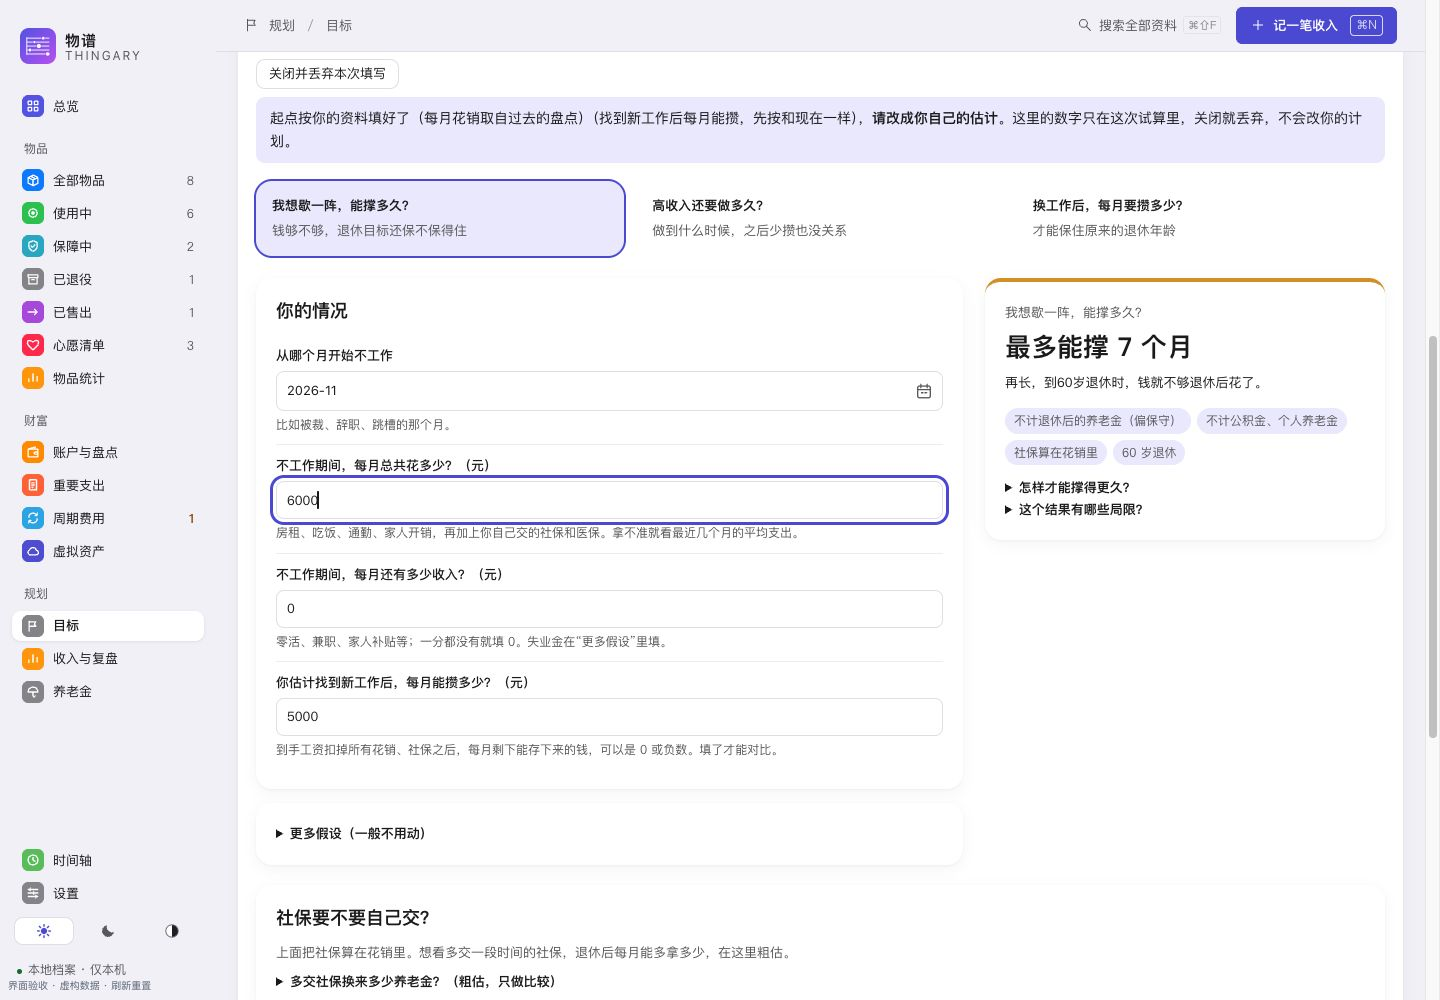
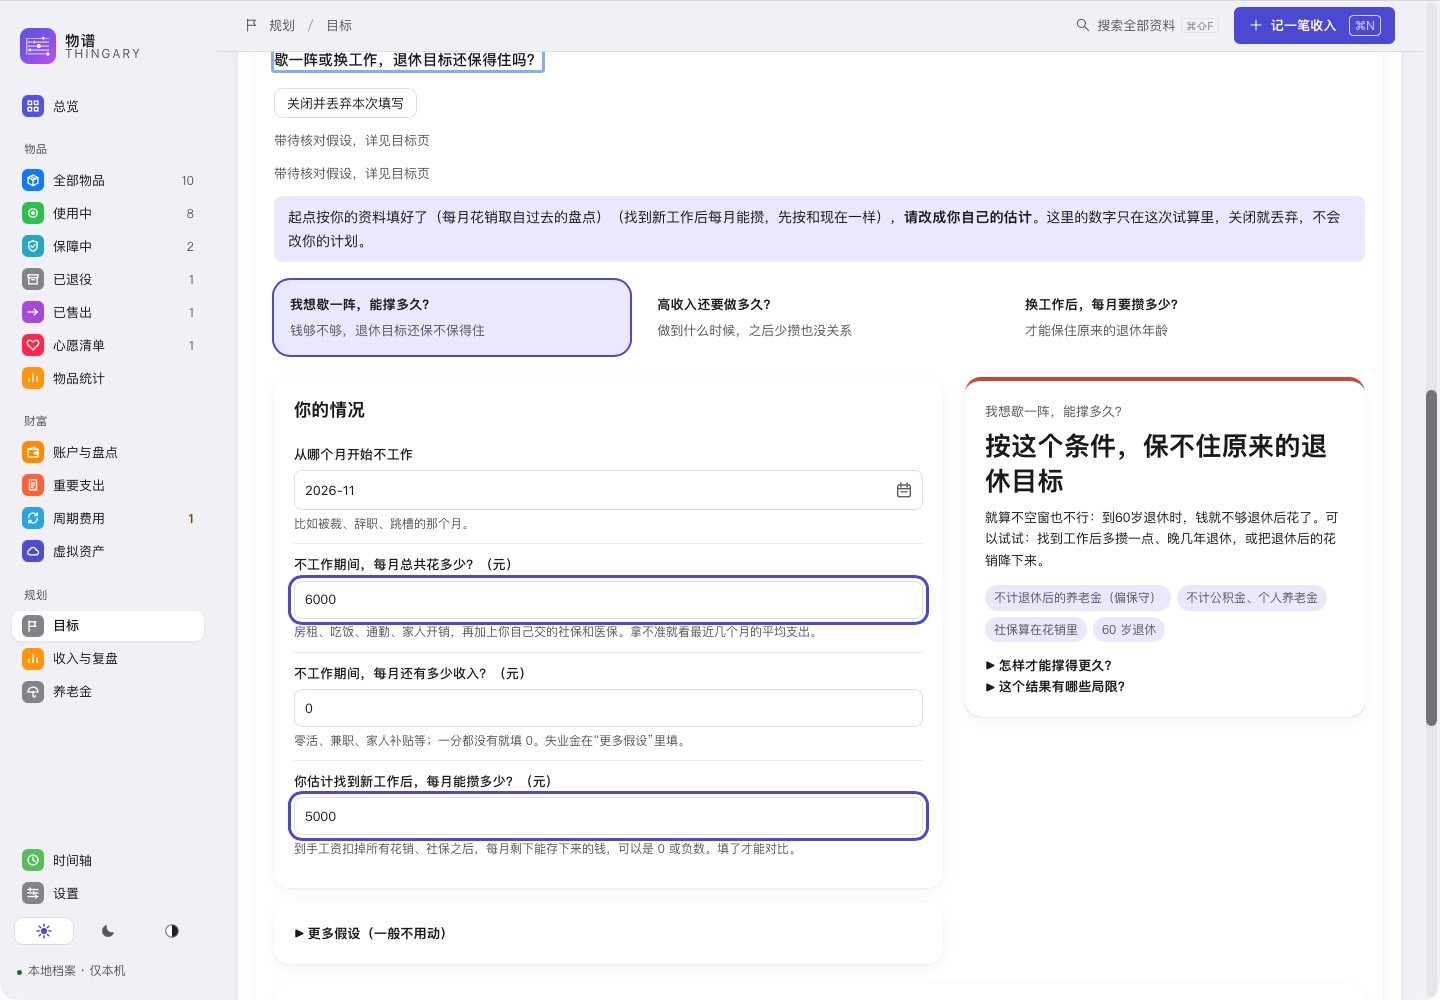
刷新隔离原生截图并记录升级与走查范围

diff --git a/docs/images/README.md b/docs/images/README.md
@@ -1,10 +1,12 @@
 # 界面截图与维护
 
-本目录为 README 与使用指南提供真实界面截图。当前 JPEG 于 **2026-10-09** 使用 **0.0.2** 应用代码拍摄（应用基线 `78715bbe9ead86f8df3098db7d3869c4f91f6808`），浏览器视口统一为 **1440 × 1000**，使用默认「柔和卡片」主题。截图全部来自内存虚构预览，不含正式资料；浏览器截图不证明原生功能已验。`planning-goals.jpg` 单独更新为基线 `40f6bb32ea5eafef8e5e2ed340d688bb3ec7ac6d` 上的四问引导代码，视口 **1200 × 900**、浅色，复现参数 `?section=planning&plan-first-run=2&capabilities=real&theme=light`；其他图仍为上述基线。`install-flow.svg` 是安装步骤示意，流程未变时无需重新绘制。
+本目录为 README 与使用指南提供真实界面截图。**2026-10-11** 在 **0.0.3** 隔离原生身份 `local.thingary.native003.acceptance` 下刷新 `overview-light.jpg`、`overview-dark.jpg`、`planning-goals.jpg`、`planning-detail.jpg`、`career-trial.jpg` 与 `backup-settings.jpg`；应用业务代码基线为 `4578bdcf2844d75071c65bb3b849197c359f760a`，材料提交为 `b179e04d21d942ebf2391b523827ae1b271c14d0`。使用默认「柔和卡片」主题，内容区域 **1440 × 1000**，目标页单独为 **1200 × 900**。以 `screencapture -l <CGWindowID>` 取真实窗口，只裁掉 32 像素系统标题栏；未拼改功能、数字或状态。
 
-0.0.3 发布准备已对照检查 `planning-goals.jpg`、`planning-detail.jpg`、`career-trial.jpg`、两张 `overview-*.jpg` 与 `backup-settings.jpg`。目标／详情、首页统计措辞、职业试算提示和 Excel 导入导出入口有变化，这六张仍需刷新。浏览器截图输出未达到清晰度要求，当前保留上述原图，未将旧图改记为 0.0.3；隔离原生验收时再检查可否补拍。
+总览与三张规划图来自应用首次生成的独立虚构样例：10 件物品、金融净资产 35 万元、可动用资金 10 万元、60 岁退休、每月生活费 7,500 元、预计每月能存 8,000 元、收益 3%／2%、通胀 2%，保留贷款和费用待核对说明。职业试算填写 6,000／0／5,000 元，按这一组样例条件显示“保不住原来的退休目标”，不沿用旧浏览器夹具的 7 个月答案。备份设置图来自同一隔离身份切换后的虚构个人资料：1 件物品、1 个账户、2 次完整盘点，展示 Excel 与自动备份入口。
 
-## 复现入口
+其他 JPEG 保留 **2026-10-09、0.0.2** 浏览器内存预览基线 `78715bbe9ead86f8df3098db7d3869c4f91f6808`，视口 **1440 × 1000**。未发现本次变化直接影响这些图所展示的操作；全部资料虚构，浏览器截图不证明原生功能已验。`install-flow.svg` 是安装步骤示意，流程未变无需重绘。最初浏览器刷新候选因清晰度不足弃用，不作为发布图片。
+
+## 浏览器预览入口（未刷新的图片）
 
 在独立开发树运行 `npm run dev -- --port 1439`，打开：
 
@@ -27,7 +29,11 @@ http://127.0.0.1:1439/visual-preview.html?plan-basic=saved&capabilities=real&the
 | `subscription-detail.jpg` | 虚拟资产 › 虚构创作服务，只读共享详情 |
 | `first-item-form.jpg` | 全部物品 › 新增物品；名称“我的笔记本电脑”、分类“电脑与办公”、价格 5,000 元，拍摄后取消 |
 | `first-snapshot-form.jpg`、`first-snapshot-result.jpg` | 改用 `?wealth=empty&theme=light`，建立“日常银行卡”和“信用卡”，填 10,000 元余额与 2,000 元欠款；分别拍摄保存前与保存后的概览 |
-| `backup-settings.jpg` | 设置 › 资料与备份；只展示入口，不执行真实备份或恢复 |
+| `backup-settings.jpg` | 设置 › 资料与备份；隔离身份的虚构个人资料，只拍入口，真实备份／恢复验收另行记录 |
+
+## 本次原生图复现
+
+以全新隔离身份构建 0.0.3，打开首次虚构样例，依表中导航拍摄总览和规划；目标页调整内容区域为 1200 × 900，其他图为 1440 × 1000。总览与规划保持同组样例和日期，不使用正式身份。职业试算填写后检查实际答案；关闭并丢弃填写。备份设置图先切到自己的空资料，建立上述虚构记录，观察自动备份成功后拍摄。不要把样例净资产与可动用资金相加。
 
 ## 更新检查
 

diff --git a/docs/releases/v0.0.3.md b/docs/releases/v0.0.3.md
@@ -28,13 +28,13 @@
 
 **新版资料和完整备份不能被旧版打开。** 新贷款安排、养老金及医保字段也有旧版读取边界；降低应用版本号不会降低数据格式。需要回退时，须使用升级前且与旧版兼容的完整备份，不能让旧应用直接打开已经升级的资料。Excel 不包含图片及全部配置和关系，不能替代 `.thingary` 完整备份；恢复是整体替换，不是合并。
 
-本次使用全新隔离身份生成的 0.0.2 虚构资料，直接升级、重启保留与旧完整备份恢复后的升级结果，待原生验收完成后补充；目前未宣称这些步骤通过。
+本次以全新隔离身份运行 0.0.2 源码生成的虚构资料，验证直接升级、重启保留，以及旧自动完整备份恢复后升级至 schema 35；物品、心愿、账户、金额与未知值、关联、保障及图片逐项比对一致。夹具同时包含完整盘点和带未知金额的历史盘点，未知未当作零。
 
 ## 验证与限制
 
 本次工程回归基线（版本与交付材料修改前）：前端构建、**875 项前端逻辑测试**、Rust 格式／Clippy 检查及 **513 项数据与存储测试**通过；另有 3 项既有容量测试忽略。前端逻辑和数据与存储测试不代表原生交互已验。
 
-**原生验收待补充**：本次尚未完成隔离身份下的首次样例、自己的资料、物品、账户、完整盘点、完整备份／恢复和重启走查；0.0.2 虚构资料升级，以及四问保存、医保年限卡、其他城市养老金与复盘页抽查也尚未完成。后续只登记实际通过、失败、未验证或需手动确认的范围。正式包的身份、版本、架构、严格签名、离线指南和许可材料尚待安装包核验。
+**本次原生验收**：隔离身份下的首次样例、切换自己的空资料、新建物品与账户、完整盘点、自动完整备份恢复及重启保留通过。已抽查四问保存、医保核对卡入口、其他城市参数填写与保存，以及盘点后复盘页；其他城市完整养老金测算尚未逐项验收。手动备份保存与恢复的系统文件选择框**需维护者手动确认**，没有把自动备份恢复当作文件框通过。正式包的身份、版本、架构、严格签名、离线指南和许可材料尚待安装包核验。
 
 VoiceOver、其他 Mac／系统版本、真实下载后的 Gatekeeper 首开及系统通知实际送达**未验证**。全部新增功能的原生交互验收尚未闭环；具体限制见[当前限制](https://github.com/CoderJackZhu/Thingary/blob/v0.0.3/docs/USER_GUIDE.md#limits)。
 

diff --git a/docs/USER_GUIDE.md b/docs/USER_GUIDE.md
@@ -77,7 +77,7 @@
 
 ![第一次盘点后的概览](images/first-snapshot-result.jpg)
 
-以上界面图片来自浏览器预览，全部使用虚构资料；安装步骤图是示意图。
+以上界面图片来自虚构浏览器预览或隔离原生样例，全部使用虚构资料；安装步骤图是示意图。
 
 前面电脑的 5,000 元是购入记录，**不加进这 8,000 元金融净资产**；如果银行卡余额已反映购买电脑，不要再从余额中扣一次。净资产变化也不等于投资收益。每次盘点都填写账户的当前数值；旧版缺失金额仍保持为空，不能当成 0。
 
@@ -539,7 +539,7 @@
 
 ## 当前限制
 
-0.0.3 本次隔离原生验收尚在进行，完成后将按实际结果补充；以下为历史验证，不能代替本次验收。
+0.0.3 于 2026-10-11 使用全新隔离身份与虚构资料验证首次样例、切换自己的空资料、新建物品与账户、完整盘点、自动完整备份恢复及重启保留；另验证 0.0.2 原生资料直接升级、重启，以及旧自动完整备份恢复后升级，原有字段与图片一致。四问保存、医保核对卡入口、自填其他城市参数与复盘页已抽查；其他城市完整养老金测算尚未逐项验收。本次手动备份保存／恢复的系统文件选择框仍需维护者手动确认，自动备份恢复通过不代表这些文件框通过。以下保留历史验证，不能代替本次未覆盖的路径。
 
 0.0.2 Beta 于 2026-10-09 使用全新隔离身份与虚构资料验证：首次样例、切换自己的空资料、新建物品和账户、完整盘点、原生备份／恢复文件对话框、恢复确认与重启保留。另以 0.0.1 源码生成的 schema 25 虚构资料验证直接升级与旧备份恢复至 schema 33，原有字段值和图片一致；此项是 Store/API 验证，不代表旧版 App 原生升级流程已完整实测。职业试算等全部新增功能的原生交互仍未逐项覆盖。
 

diff --git a/docs/DEVELOPMENT.md b/docs/DEVELOPMENT.md
@@ -205,7 +205,7 @@ P1-3B 收入回归覆盖 I02/I03/I07/I09/I11：空缴存与零、同日同额不
 
 `tests/planning-pension-refinement.test.mjs` 运行生产对话框、Q4 和卡片处理器，覆盖五个入口、缺项硬阻塞与改选先不算、内存草稿与统一 setup 保存、隐藏值保全、未来缴存只扣一次，以及固定比较上下文、无原结果／不变／不可计算；原生临时 Store 的 setup 多段保存、null、原子性、重启、冲突和未知回执重放由 `src-tauri/tests/planning_basic.rs` 验证。浏览器可点通与截图不证明原生 UI 持久化；隔离原生 UI 的保存、重启、备份交互及辅助功能仍需另行验收。
 
-从「核对未来缴存安排」卡片或其计算依据进入是一个明确例外：先不算／手填也显示同一个缴费步骤，用于补齐真实缴存排期；保留原收入模式，不引入北京估算，社保资料步仍仅在北京且缺项时出现。普通国家养老金卡与 Q4 仍仅在选北京时显示缴费步骤。预览另有 `plan-pension=transfer-excluded|transfer-manual`，对应生产处理器自动化已覆盖。
+从「核对未来缴存安排」卡片或其计算依据进入是一个明确例外：先不算／手填也显示同一个缴费步骤，用于补齐真实缴存排期；保留原收入模式，不引入职工养老金估算，社保资料步仍仅在职工养老金模式且缺项时出现。普通国家养老金卡与 Q4 仍仅在选职工养老金估算时显示缴费步骤。预览另有 `plan-pension=transfer-excluded|transfer-manual`，对应生产处理器自动化已覆盖。
 
 ### Excel 导入与导出
 
